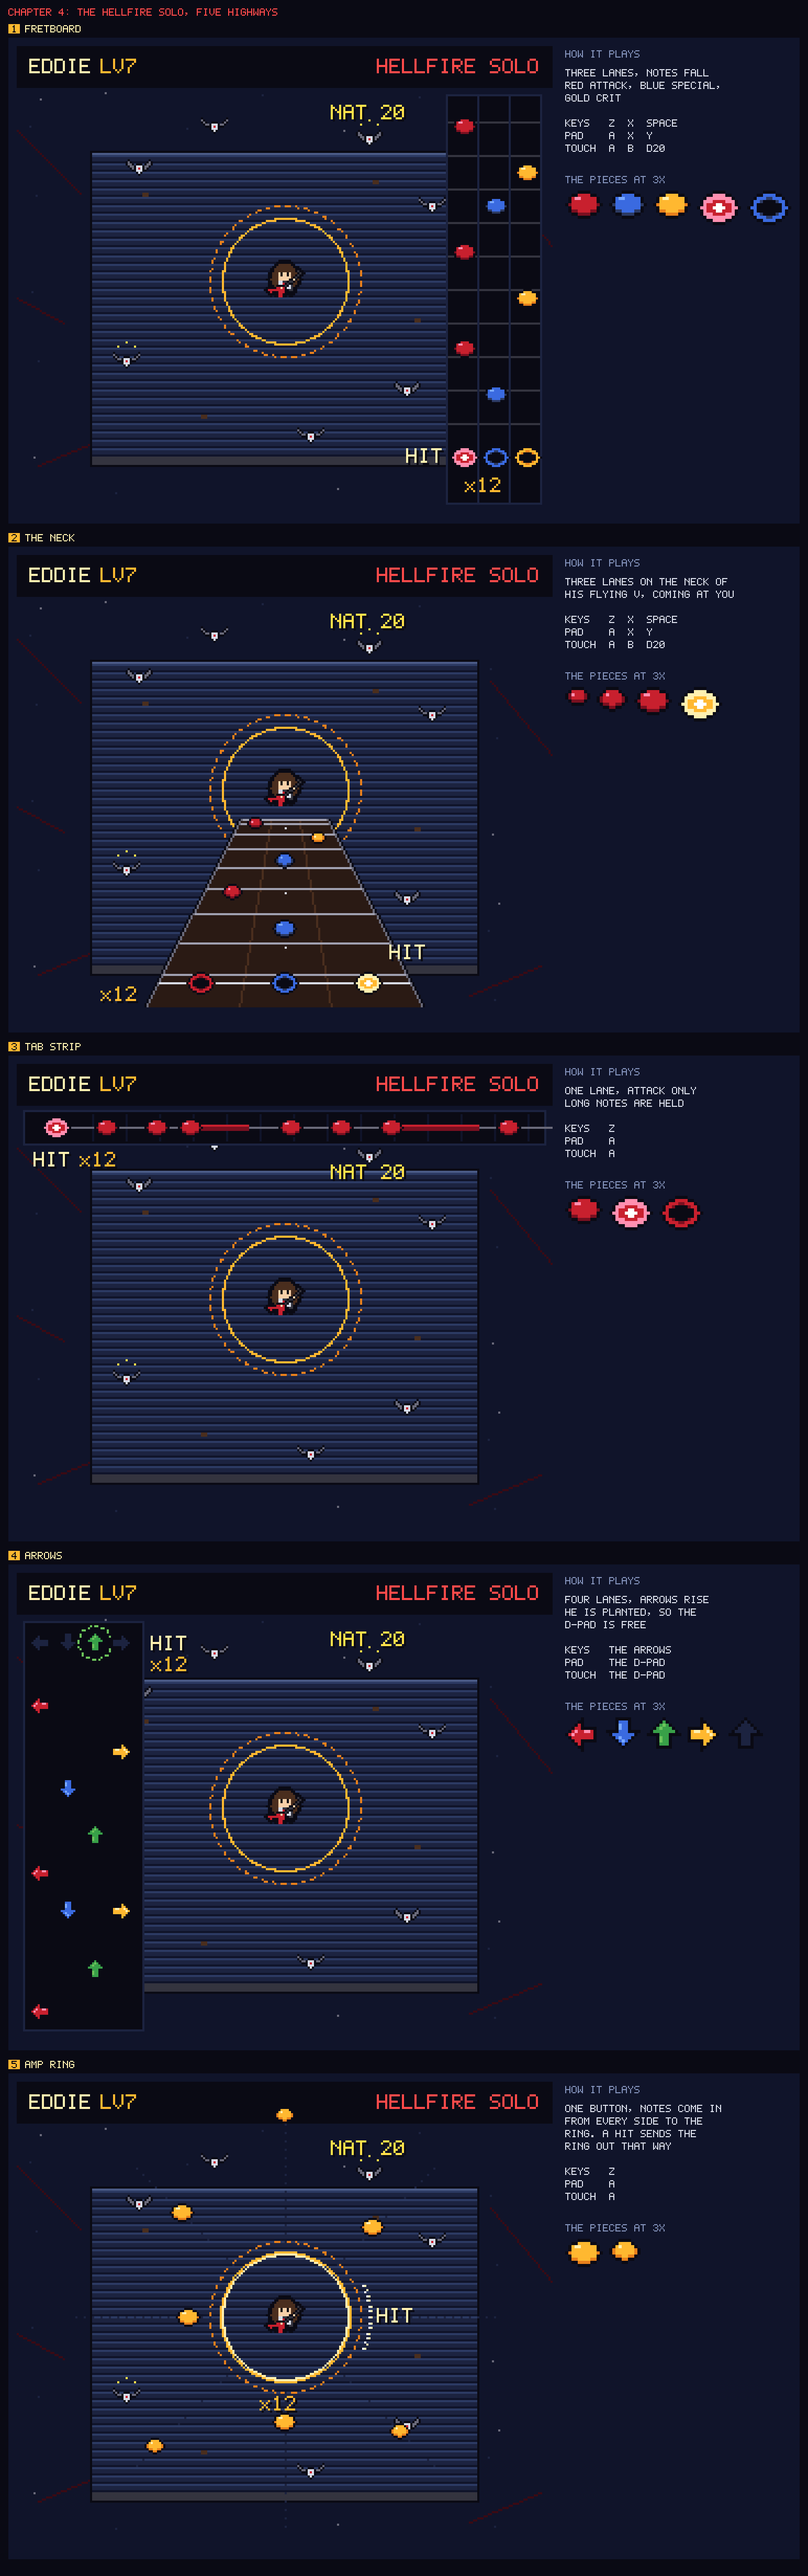
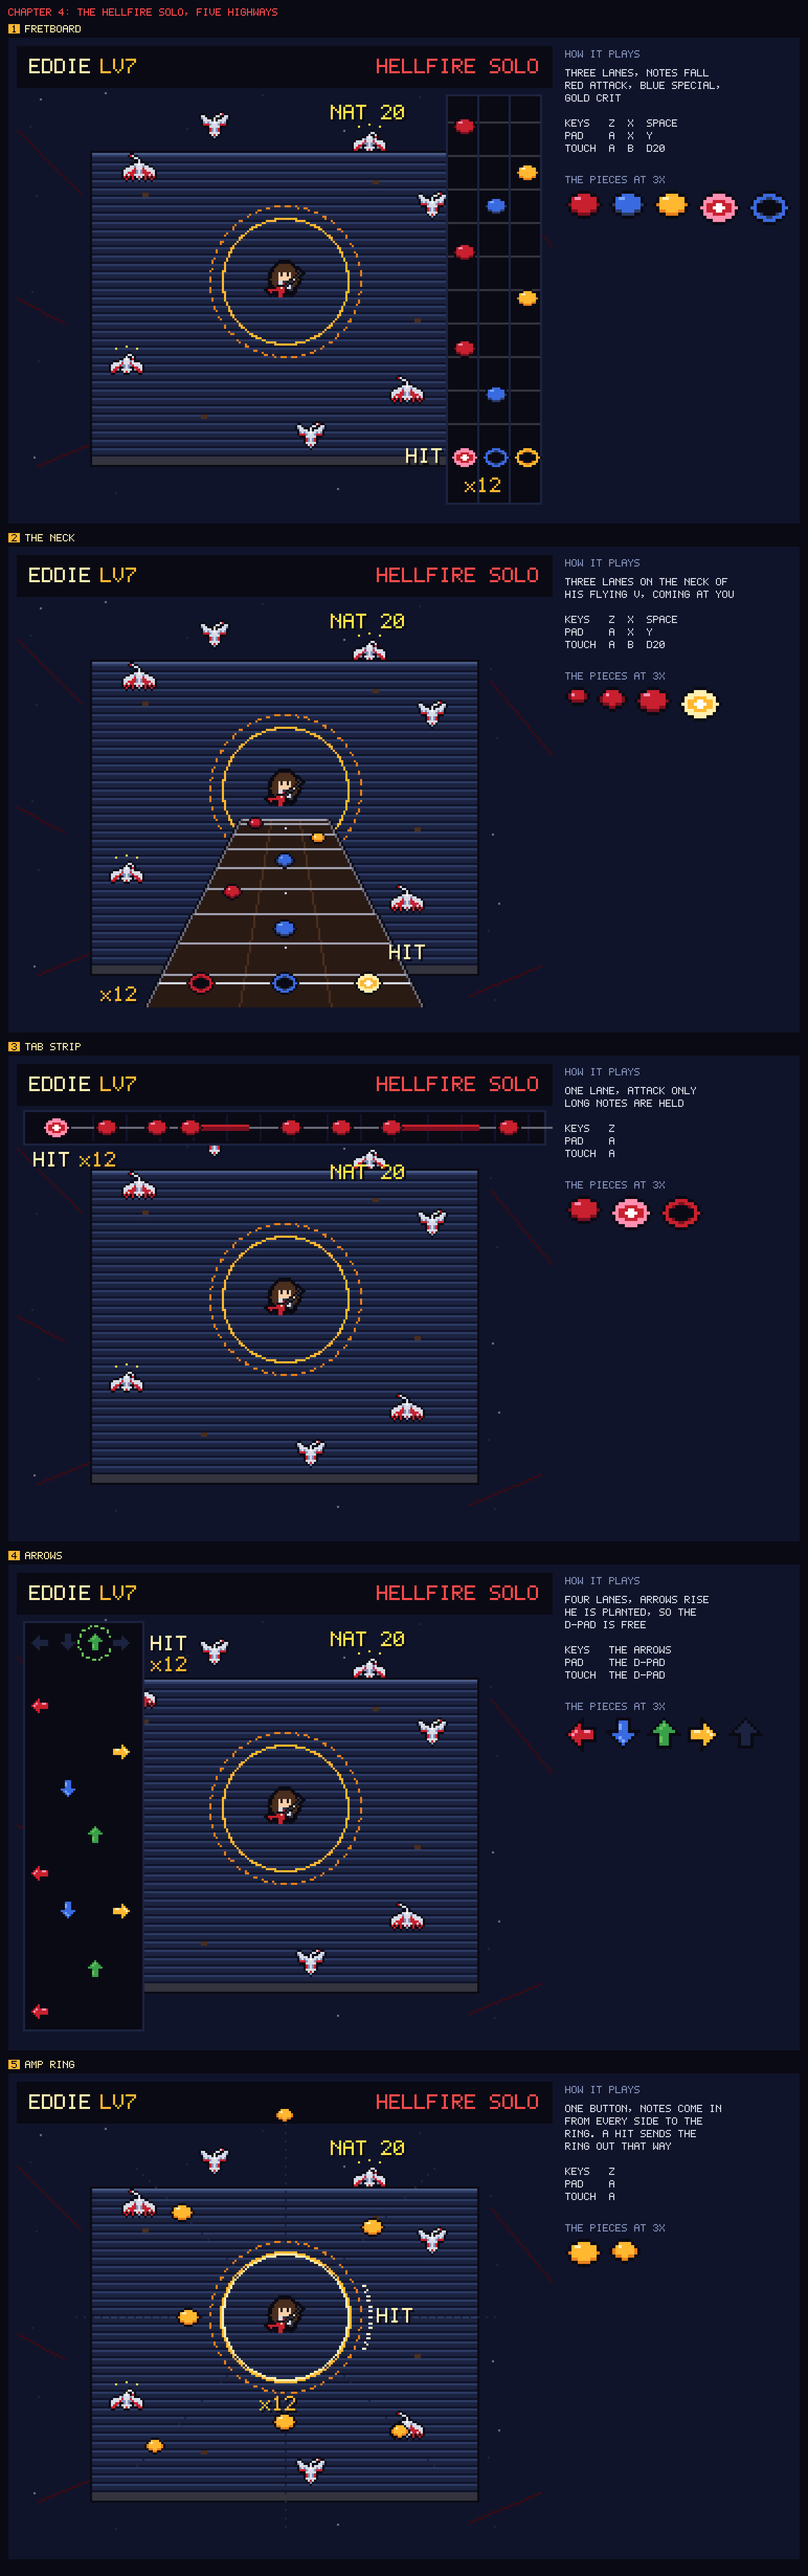
WIP: the solo sheet's demobats are the Pale pick

diff --git a/src/gfx/var/solo_kit.ts b/src/gfx/var/solo_kit.ts
@@ -1,12 +1,14 @@
 // The pieces of solo-variations.html, the Hellfire solo as a retro Guitar Hero: a 256 by 224 game frame mid-song (the trailer
-// roof in Upside Down Hawkins, Eddie planted in the middle in the owner's pick, Hellfire Club, demobats round him, two of them
-// stunned, the sound ring), and the note gems, targets and arrows the highway layouts in solo.ts draw on it. Lane colors come
-// from the HUD: Attack red, Special blue like the MP bar, Crit gold like the d20. Pure pixel work: no DOM until toCanvas().
+// roof in Upside Down Hawkins, Eddie planted in the middle in the owner's pick, Hellfire Club, demobats round him in the Pale
+// look from demobat-variations.html, two of them stunned, the sound ring), and the note gems, targets and arrows the highway
+// layouts in solo.ts draw on it. Lane colors come from the HUD: Attack red, Special blue like the MP bar, Crit gold like the
+// d20. Pure pixel work: no DOM until toCanvas().
 import type { ColorName } from '../palette.ts';
 import { Px } from '../px.ts';
 import { paintRoles } from './kit.ts';
 import { FRAMES, eddieFrame, FW } from './eddie_kit.ts';
 import { EDDIE_OPTS } from './eddie_opts.ts';
+import { demobatFrame } from './demobat_kit.ts';
 
 export const SW = 256, SH = 224, HUD = 20;
 /** Where Eddie stands: the middle of his frame, in screen px. */
@@ -20,30 +22,9 @@ export const GREEN: Lane = { col: 'pine3', shade: 'pine1', hi: 'leaf' };
 
 type Pt = readonly [number, number];
 
-const BAT = [
-  '.k.........k.',
-  'kgk.......kgk',
-  'kggk.kkk.kggk',
-  '.kggkGGGkggk.',
-  '..kgkGrGkgk..',
-  '...kkGGGkk...',
-  '.....kGk.....',
-  '......k......',
-];
-const BAT_UP = [
-  'k...........k',
-  'gk.........kg',
-  'kgk..kkk..kgk',
-  '.kggkGGGkggk.',
-  '..kkkGrGkkk..',
-  '....kGGGk....',
-  '.....kGk.....',
-  '......k......',
-];
-
-/** A demobat from above, wings out or up. */
-export function bat(up: boolean): Px {
-  return new Px(13, 8).art(up ? BAT_UP : BAT, { k: 'ink', g: 'grey2', G: 'bone', r: 'red' });
+/** A demobat from above, wings up or down, or stunned: the Pale look (demobat_kit.ts), 17 by 14. */
+export function bat(up: boolean, stun = false): Px {
+  return demobatFrame('pale', stun ? 'stunned' : up ? 'flap1' : 'flap3');
 }
 
 /** Every pixel on a circle, so a ring is unbroken at any radius. */
@@ -76,8 +57,7 @@ export function backdrop(ringR = 30): Px {
   ring(p, EX, EY, ringR + 6, 'orange', 3);
   ring(p, EX, EY, ringR, 'amber');
   for (const b of BATS) {
-    p.blit(bat(b.up), b.at[0] - 6, b.at[1] - 4);
-    if (b.stun) for (const [dx, dy] of [[-4, -7], [0, -9], [4, -7]] as const) p.set(b.at[0] + dx, b.at[1] + dy, 'yellow');
+    p.blit(bat(b.up, b.stun), b.at[0] - 8, b.at[1] - 7);
   }
   const solo = FRAMES.findIndex((f) => f.label === 'SOLO');
   const o = EDDIE_OPTS[0]!;
